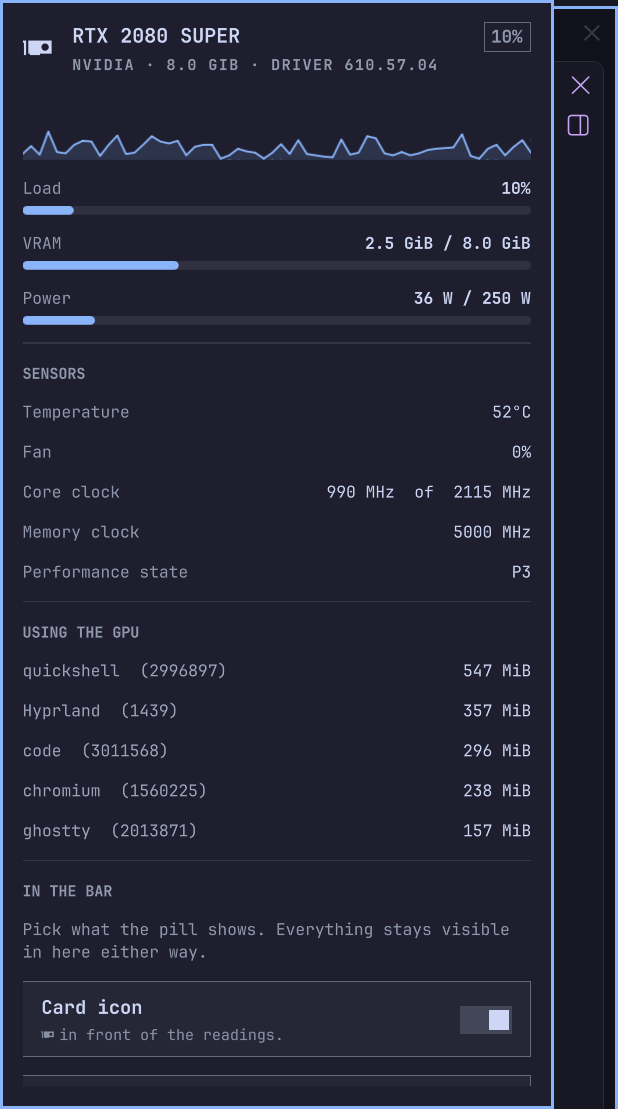
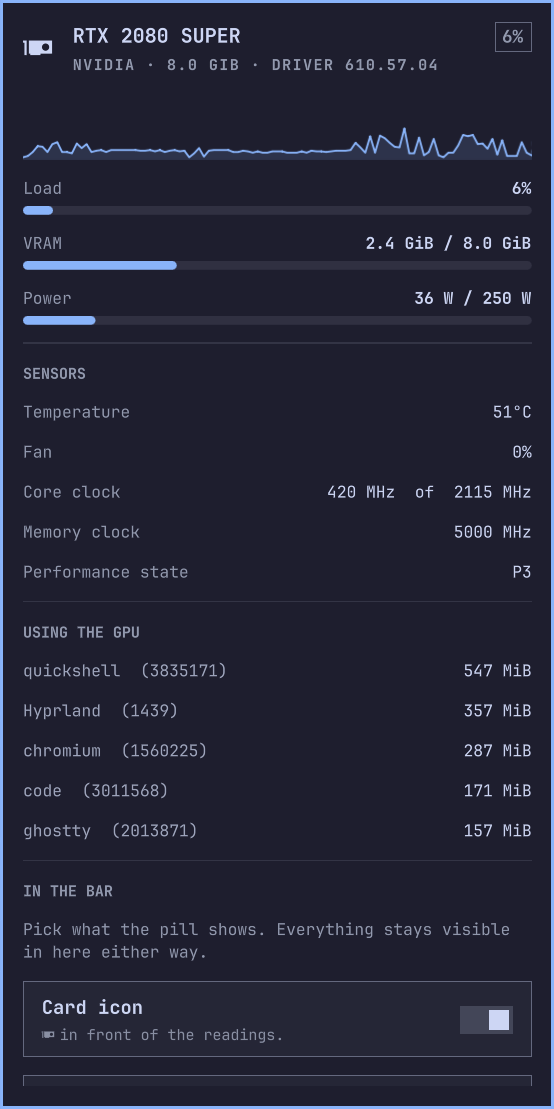
Refresh the submission kit
Screenshots retaken against the current panels — the CPU one now shows the
power row and the process-scale section, the network one its sparklines and
reordered layout. READMEs describe what each panel actually contains now,
and the submission drafts match.

diff --git a/docs/SUBMISSION-DRAFT.md b/docs/SUBMISSION-DRAFT.md
@@ -1,5 +1,5 @@
 <!--
-Marketplace submission for https://plugins.omarchy.org — unsubmitted draft.
+Marketplace submission for https://plugins.omarchy.org — UNSUBMITTED DRAFT.
 Before submitting: push the repo and tag v1.0.0, strip this comment, then:
 
   gh issue create --repo HANCORE-linux/omarchy-plugin-marketplace \
@@ -24,19 +24,19 @@ _No response_
 
 ### Maintainer notes
 
-GPU load, VRAM, temperature and power in the bar; a load graph, VRAM and power
-meters, every sensor the driver reports and the processes holding GPU memory in
-the panel. Multi-GPU machines get a card picker. Middle-click drops into btop.
+Load, VRAM, temperature and power in the bar; in the panel a load graph, VRAM
+and power meters, every sensor the driver reports, and the processes holding
+GPU memory. Multi-GPU machines get a card picker. Middle-click opens btop.
 
 NVIDIA is read through `nvidia-smi`; AMD and Intel through `/sys/class/drm` and
 their hwmon nodes. Anything a driver does not report is hidden rather than
 guessed at, so the panel only ever shows real readings. Two standard-library
 Python scripts in `bin/`; the only external commands are `nvidia-smi` and
 `lspci`, both read-only. No daemon, no root, no network, and nothing written
-outside the plugin folder — `omarchy plugin remove` is a clean uninstall.
+outside the plugin folder.
 
-Developed and tested against an NVIDIA card. The AMD and Intel paths are
-written to the documented sysfs contract but are not exercised on my hardware.
+Developed and tested against an NVIDIA card. The AMD and Intel paths follow the
+documented sysfs contract but are not exercised on my hardware.
 
 One of a trio with omarchy-cpu and omarchy-network-speed, which share the same
 panel layout and controls.

diff --git a/README.md b/README.md
@@ -63,6 +63,7 @@ omarchy-shell shell toggle dansmith888.gpu
 | **Sensors** | Temperature, fan, core and memory clocks, performance state |
 | **Using the GPU** | Processes holding GPU memory, biggest first (NVIDIA only) |
 | **In the bar** | Which readings the pill shows, card picker, refresh rate, °C/°F, graph history |
+| **Layout** | Pin the pill to a fixed width, or leave it to size itself |
 | **Warning & alert** | Two thresholds and a color each, taken from your live Omarchy theme; the pill and hero mark follow them |
 
 Settings are stored inline on the widget's `~/.config/omarchy/shell.json`
